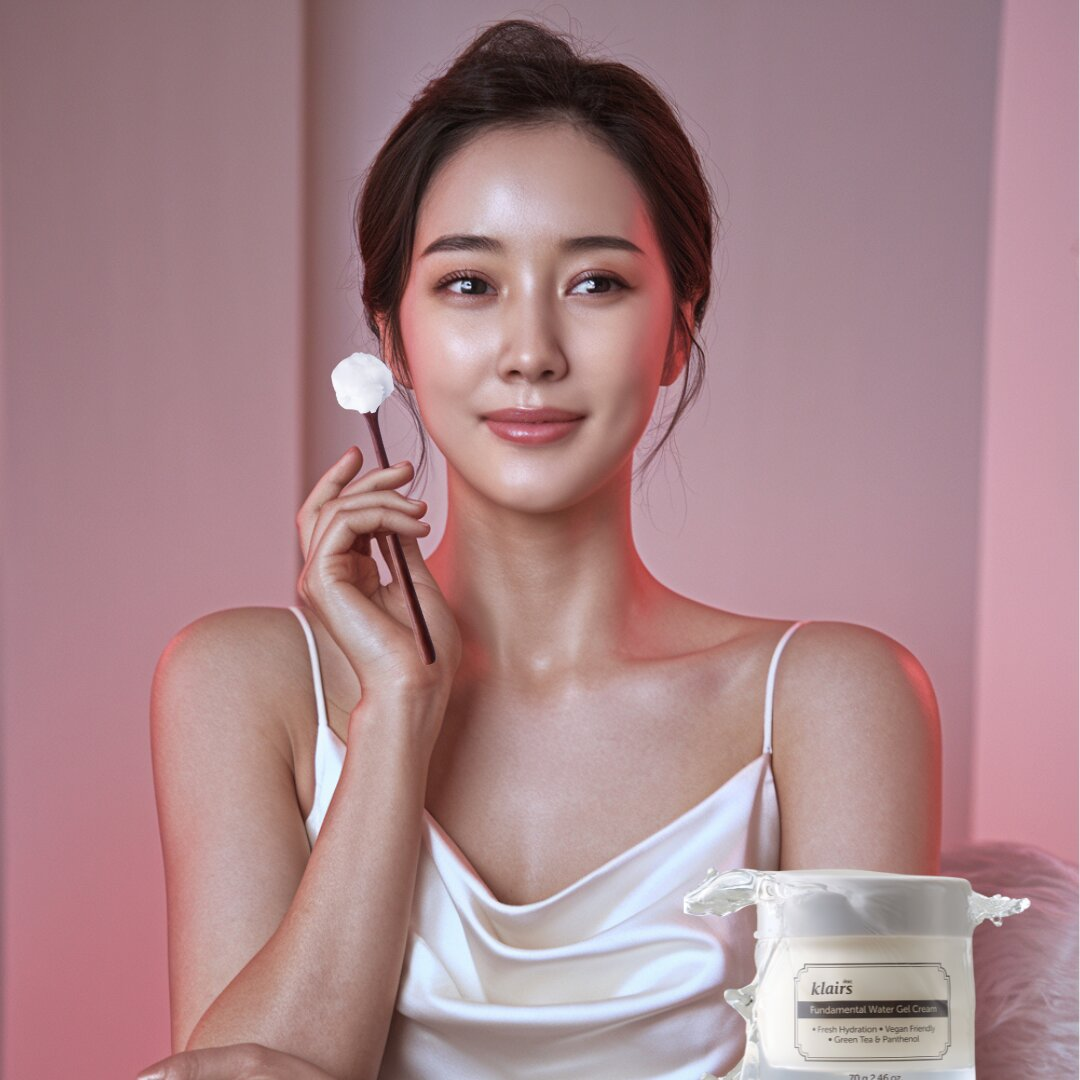
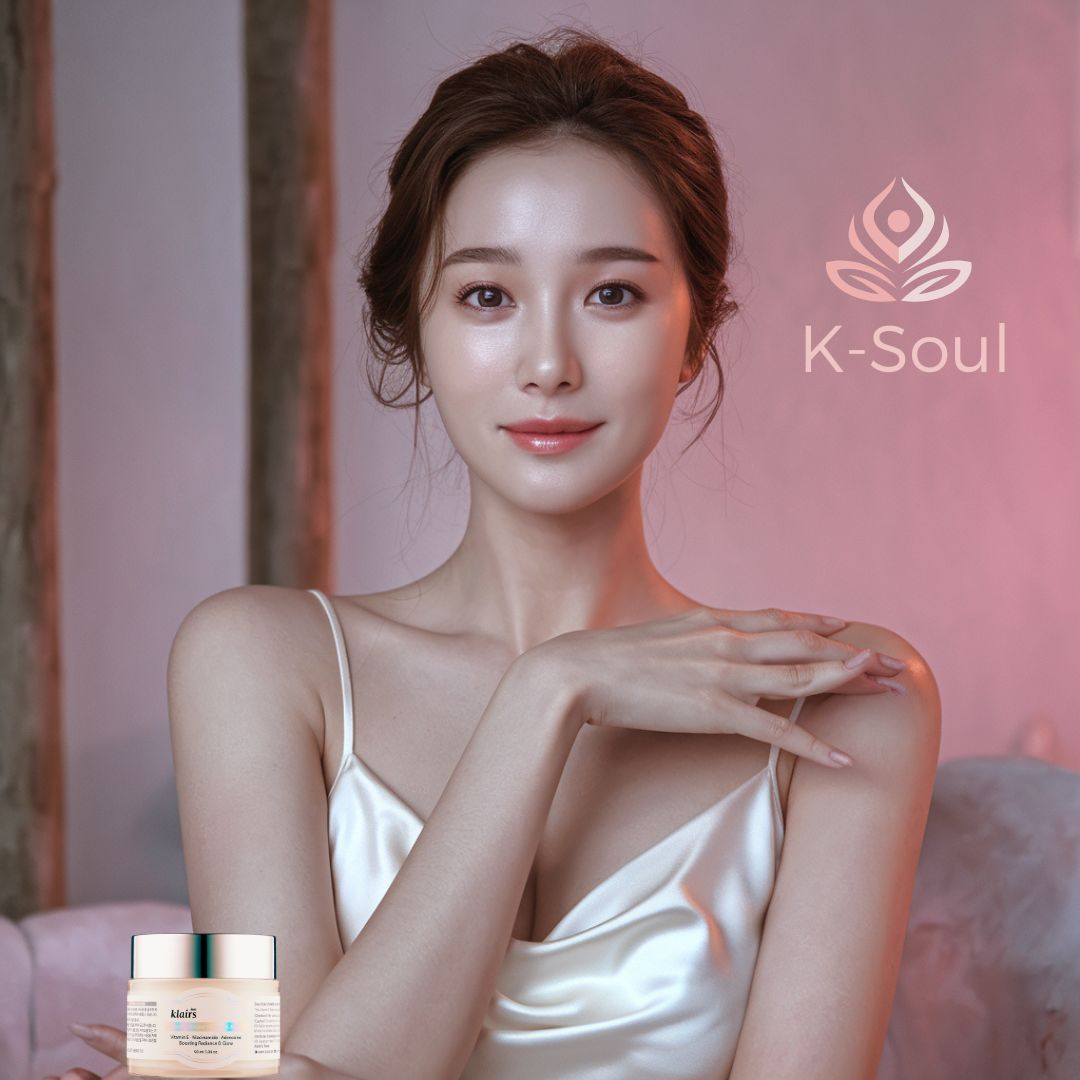
Update design and images

diff --git a/src/components/Navbar.jsx b/src/components/Navbar.jsx
@@ -1,112 +1,128 @@
-import React, { useState } from 'react';
+import React from 'react';
 import { Link } from 'react-router-dom';
 import styled from 'styled-components';
-import logo from '../assets/Logo.png';
-import { FaBars } from 'react-icons/fa';
 import { motion } from 'framer-motion';
+import { Swiper, SwiperSlide } from 'swiper/react';
+import { Autoplay } from 'swiper/modules';
+import 'swiper/swiper-bundle.css';
 
-const NavbarContainer = styled.nav`
-  background-color: #FFB6C1;
-  padding: 1rem 2rem;
+import img1 from '../assets/gel_cream.png';
+import img2 from '../assets/serm(caja).jpg';
+import img3 from '../assets/8809572890581_2.jpg';
+import img4 from '../assets/8809572890581_1.jpg';
+import img5 from '../assets/freshlyjuicedemask(caja).jpg';
+import img6 from '../assets/freshlyjuicedemask(fueradecaja).jpg';
+import heroImage from '../assets/Heroico.jpg';
+
+const Hero = styled.div`
+  background-image: url(${heroImage});
+  background-size: cover;
+  background-position: center;
+  height: 60vh;
   display: flex;
-  justify-content: space-between;
+  justify-content: center;
   align-items: center;
-  position: relative;
+  color: #F2F2F2;
+  text-align: center;
 
-  .logo {
-    position: absolute;
-    left: 50%;  /* Centra el logo horizontalmente */
-    transform: translateX(-50%); /* Ajusta el logo perfectamente en el centro */
-    
-    img {
-      width: 70px;
-      height: auto;
-    }
+  @media (max-width: 768px) {
+    height: 50vh;
   }
+`;
 
-  .nav-links {
-    display: none;
-  }
+const HeroText = styled.div`
+  margin-top: 1rem;
+  text-align: center;
 
-  .hamburger {
-    font-size: 2rem;
-    cursor: pointer;
-    display: none;
+  h1 {
+    font-size: 3rem;
+    font-family: 'Belgiano Serif', serif;
+    color: #D5006D; /* Dark pink color for consistency */
+    margin-bottom: 0.5rem;
 
     @media (max-width: 768px) {
-      display: block;
-      position: relative;
+      font-size: 1.9rem;
     }
   }
 `;
 
-const MotionMenu = styled(motion.div)`
-  display: flex;
-  flex-direction: column;
-  background-color: #FFB6C1;
-  position: fixed;
-  top: 0;
-  left: 0;
-  width: 80%;
-  height: 100%;
-  z-index: 10;
+const FeaturedProducts = styled.div`
   padding: 2rem;
-  box-shadow: 2px 0 5px rgba(0, 0, 0, 0.5);
+  text-align: center;
+  background-color: #FFB6C1; /* Light pink background for consistency */
+  color: #010326; /* Dark color for text contrast */
 
-  a {
-    color: #D5006D;
-    text-decoration: none;
-    margin: 1rem 0;
-    text-align: center;
-    font-size: 1.2rem;
-  }
-
-  .menu-close {
-    font-size: 1.5rem;
-    cursor: pointer;
-    text-align: right;
-  }
-
-  hr {
-    border: none;
-    border-bottom: 1px solid #ccc;
+  h2 {
     margin: 1.5rem 0;
+    color: #D5006D; /* Dark pink color for titles */
   }
 `;
 
-const Navbar = () => {
-  const [isOpen, setIsOpen] = useState(false);
+const ProductImage = styled.img`
+  width: 100%;
+  max-width: 200px;
 
-  const toggleMenu = () => {
-    setIsOpen(!isOpen);
-  };
+  @media (max-width: 768px) {
+    max-width: 150px;
+  }
+`;
+
+const ProductDescription = styled.p`
+  color: #5C5C5C; /* Slightly dark gray for better readability */
+`;
+
+const Home = () => {
+  const products = [
+    { id: 1, name: 'RICH MOIST SOOTHING TENCEL SHEET MASK', image: img1, description: 'Mascarilla facial nutritiva', price: '€1.99' },
+    { id: 2, name: 'RICH MOIST SOOTHING SERUM', image: img2, description: 'Sérum anti-envejecimiento', price: '€11.99' },
+    { id: 3, name: 'FUNDAMENTAL WATER GEL CREAM', image: img3, description: 'Crema de gel hidratante', price: '€16.99' },
+    { id: 4, name: 'FUNDAMENTAL NOURISHING EYE BUTTER', image: img4, description: 'Mantequilla nutritiva para los ojos', price: '€13.49' },
+    { id: 5, name: 'FRESHLY JUICED VITAMIN E MASK', image: img5, description: 'Mascarilla de vitamina E', price: '€15.49' },
+    { id: 6, name: 'GENTLE BLACK DEEP CLEANSING OIL', image: img6, description: 'Aceite limpiador profundo', price: '€12.49' },
+  ];
 
   return (
-    <NavbarContainer>
-      <div className="hamburger" onClick={toggleMenu}>
-        <FaBars />
-      </div>
-      <div className="logo">
-        <Link to="/">
-          <img src={logo} alt="Logo" />
-        </Link>
-      </div>
-
-      {isOpen && (
-        <MotionMenu
-          initial={{ x: '-100%' }}
-          animate={{ x: 0 }}
-          transition={{ duration: 0.5 }}
-          exit={{ x: '-100%' }}
+    <motion.div initial={{ opacity: 0 }} animate={{ opacity: 1 }} transition={{ duration: 1 }}>
+      <Hero />
+      <HeroText>
+        <h1>Cuidado Coreano para tu Alma</h1>
+      </HeroText>
+      <FeaturedProducts>
+        <Swiper
+          modules={[Autoplay]}
+          autoplay={{
+            delay: 2500,
+            disableOnInteraction: false,
+          }}
+          spaceBetween={10}
+          slidesPerView={1}
+          breakpoints={{
+            768: {
+              slidesPerView: 2,
+            },
+            1024: {
+              slidesPerView: 3,
+            },
+          }}
         >
-          <div className="menu-close" onClick={toggleMenu}>✕</div>
-          <Link to="/products" onClick={toggleMenu}>Productos</Link>
-          <Link to="/about" onClick={toggleMenu}>Sobre Nosotros</Link>
-          <Link to="/contact" onClick={toggleMenu}>Contacto</Link>
-        </MotionMenu>
-      )}
-    </NavbarContainer>
+          {products.map((product) => (
+            <SwiperSlide key={product.id}>
+              <motion.div
+                initial={{ opacity: 0, y: 20 }}
+                animate={{ opacity: 1, y: 0 }}
+                transition={{ duration: 0.5 }}
+              >
+                <ProductImage src={product.image} alt={product.name} />
+                <h2>{product.name}</h2>
+                <ProductDescription>{product.description}</ProductDescription>
+                <p>Precio: {product.price}</p>
+              </motion.div>
+            </SwiperSlide>
+          ))}
+        </Swiper>
+      </FeaturedProducts>
+    </motion.div>
   );
 };
 
-export default Navbar;
+export default Home;

diff --git a/src/pages/Home.jsx b/src/pages/Home.jsx
@@ -31,27 +31,17 @@ const Hero = styled.div`
 `;
 
 const HeroText = styled.div`
+  margin-top: 1rem;
+  text-align: center;
+
   h1 {
     font-size: 3rem;
     font-family: 'Belgiano Serif', serif;
-    color: #1E1E1E; /* Charcoal color in harmony with pastel pink */
+    color: #1E90FF; /* Azul para criar contraste */
+    margin-bottom: 0.5rem;
 
     @media (max-width: 768px) {
       font-size: 1.9rem;
-    }
-  }
-
-  a {
-    margin-top: 2rem;  
-    padding: 0.8rem 2rem;
-    background-color: #F2F2F2;
-    color: #010326;
-    text-decoration: none;
-    border-radius: 8px;
-    transition: background-color 0.3s;
-
-    &:hover {
-      background-color: #FFB6C1;
     }
   }
 `;
@@ -59,11 +49,26 @@ const HeroText = styled.div`
 const FeaturedProducts = styled.div`
   padding: 2rem;
   text-align: center;
-  background-color: #F2F2F2;
+  background-color: #F2F2F2; /* Cor neutra para destacar os produtos */
+  color: #010326; /* Cor escura para contraste */
 
   h2 {
-    margin: 2rem 0;
-    color: #010326;
+    margin: 1.5rem 0;
+    color: #D5006D; /* Rosa escuro para manter a consistência */
+  }
+`;
+
+const ProductCard = styled(motion.div)`
+  background-color: #FFFFFF; /* Fundo branco para destacar cada card */
+  border: 1px solid #E0E0E0; /* Bordas suaves */
+  border-radius: 8px;
+  padding: 1rem;
+  margin: 0.5rem;
+  box-shadow: 0 4px 6px rgba(0, 0, 0, 0.1);
+  transition: transform 0.3s;
+
+  &:hover {
+    transform: scale(1.05);
   }
 `;
 
@@ -74,6 +79,15 @@ const ProductImage = styled.img`
   @media (max-width: 768px) {
     max-width: 150px;
   }
+`;
+
+const ProductDescription = styled.p`
+  color: #5C5C5C; /* Cinza suave para melhor legibilidade */
+`;
+
+const PriceTag = styled.p`
+  color: #1E90FF; /* Azul para destacar o preço */
+  font-weight: bold;
 `;
 
 const Home = () => {
@@ -88,18 +102,16 @@ const Home = () => {
 
   return (
     <motion.div initial={{ opacity: 0 }} animate={{ opacity: 1 }} transition={{ duration: 1 }}>
-      <Hero>
-        <HeroText>
-          <h1></h1>
-        </HeroText>
-      </Hero>
+      <Hero />
+      <HeroText>
+        <h1>Cuidado Coreano para tu piel y tu Alma</h1>
+      </HeroText>
       <FeaturedProducts>
-        <h2>Cuidado Coreano para tu Alma</h2>
         <Swiper
-          modules={[Autoplay]} 
+          modules={[Autoplay]}
           autoplay={{
-            delay: 2500, 
-            disableOnInteraction: false, 
+            delay: 2500,
+            disableOnInteraction: false,
           }}
           spaceBetween={10}
           slidesPerView={1}
@@ -114,16 +126,16 @@ const Home = () => {
         >
           {products.map((product) => (
             <SwiperSlide key={product.id}>
-              <motion.div
-                initial={{ opacity: 0, y: 20 }} 
-                animate={{ opacity: 1, y: 0 }} 
-                transition={{ duration: 0.5 }} 
+              <ProductCard
+                initial={{ opacity: 0, y: 20 }}
+                animate={{ opacity: 1, y: 0 }}
+                transition={{ duration: 0.5 }}
               >
                 <ProductImage src={product.image} alt={product.name} />
                 <h2>{product.name}</h2>
-                <p>{product.description}</p>
-                <p>Precio: {product.price}</p>
-              </motion.div>
+                <ProductDescription>{product.description}</ProductDescription>
+                <PriceTag>Precio: {product.price}</PriceTag>
+              </ProductCard>
             </SwiperSlide>
           ))}
         </Swiper>
